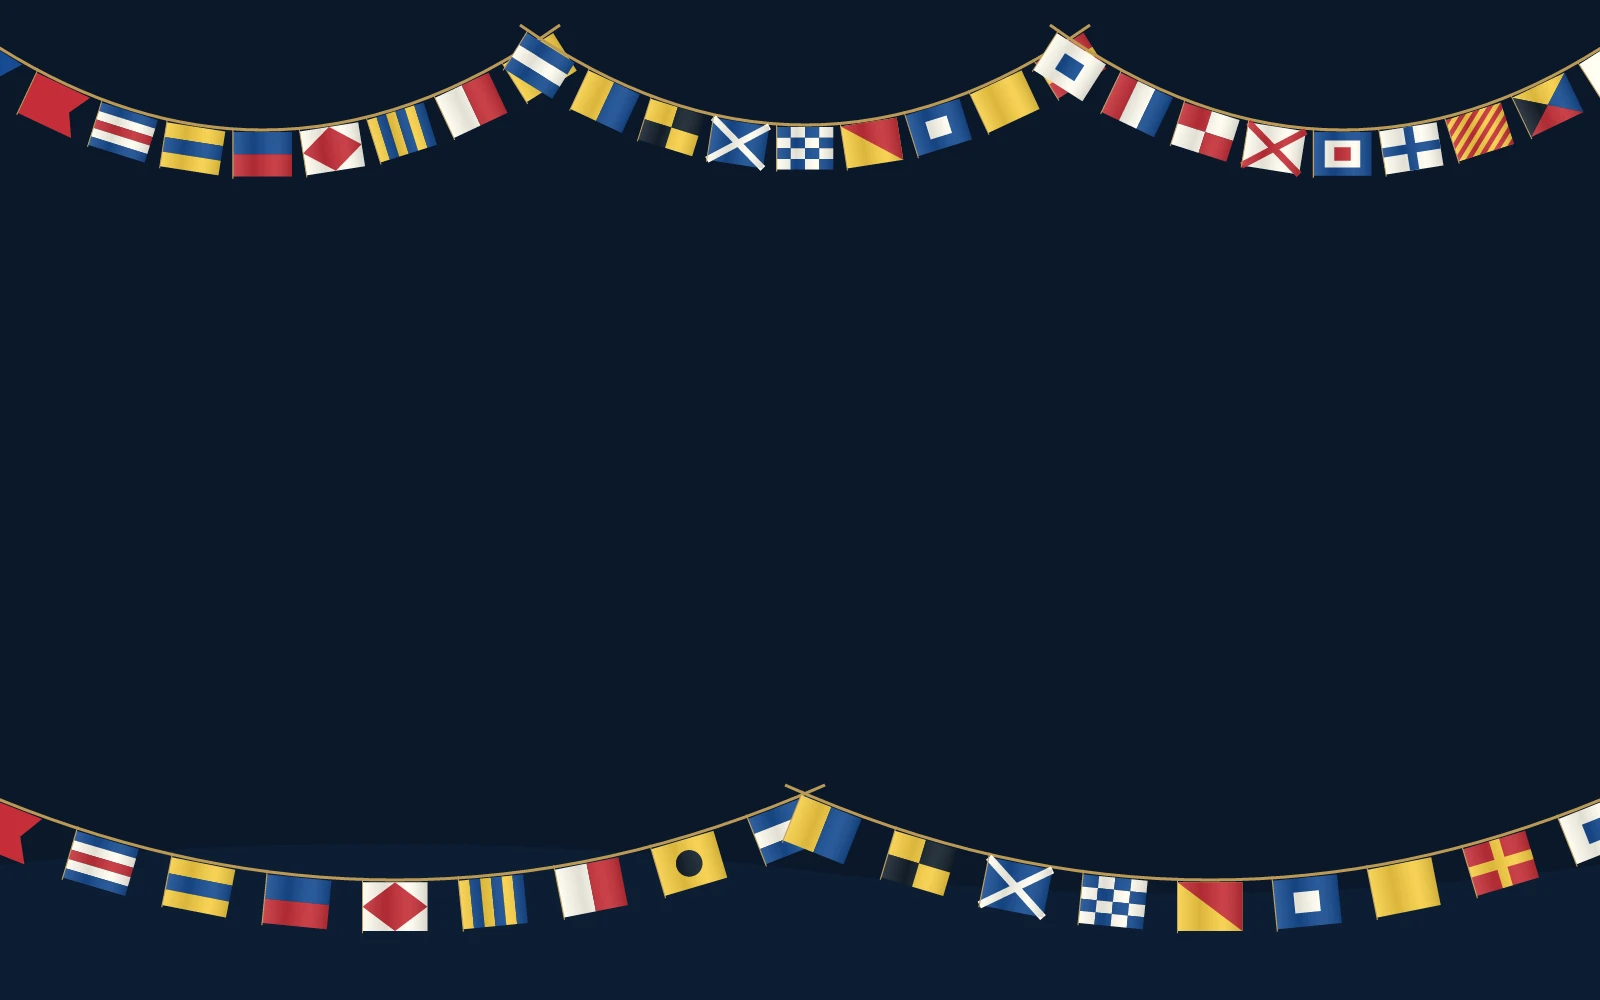
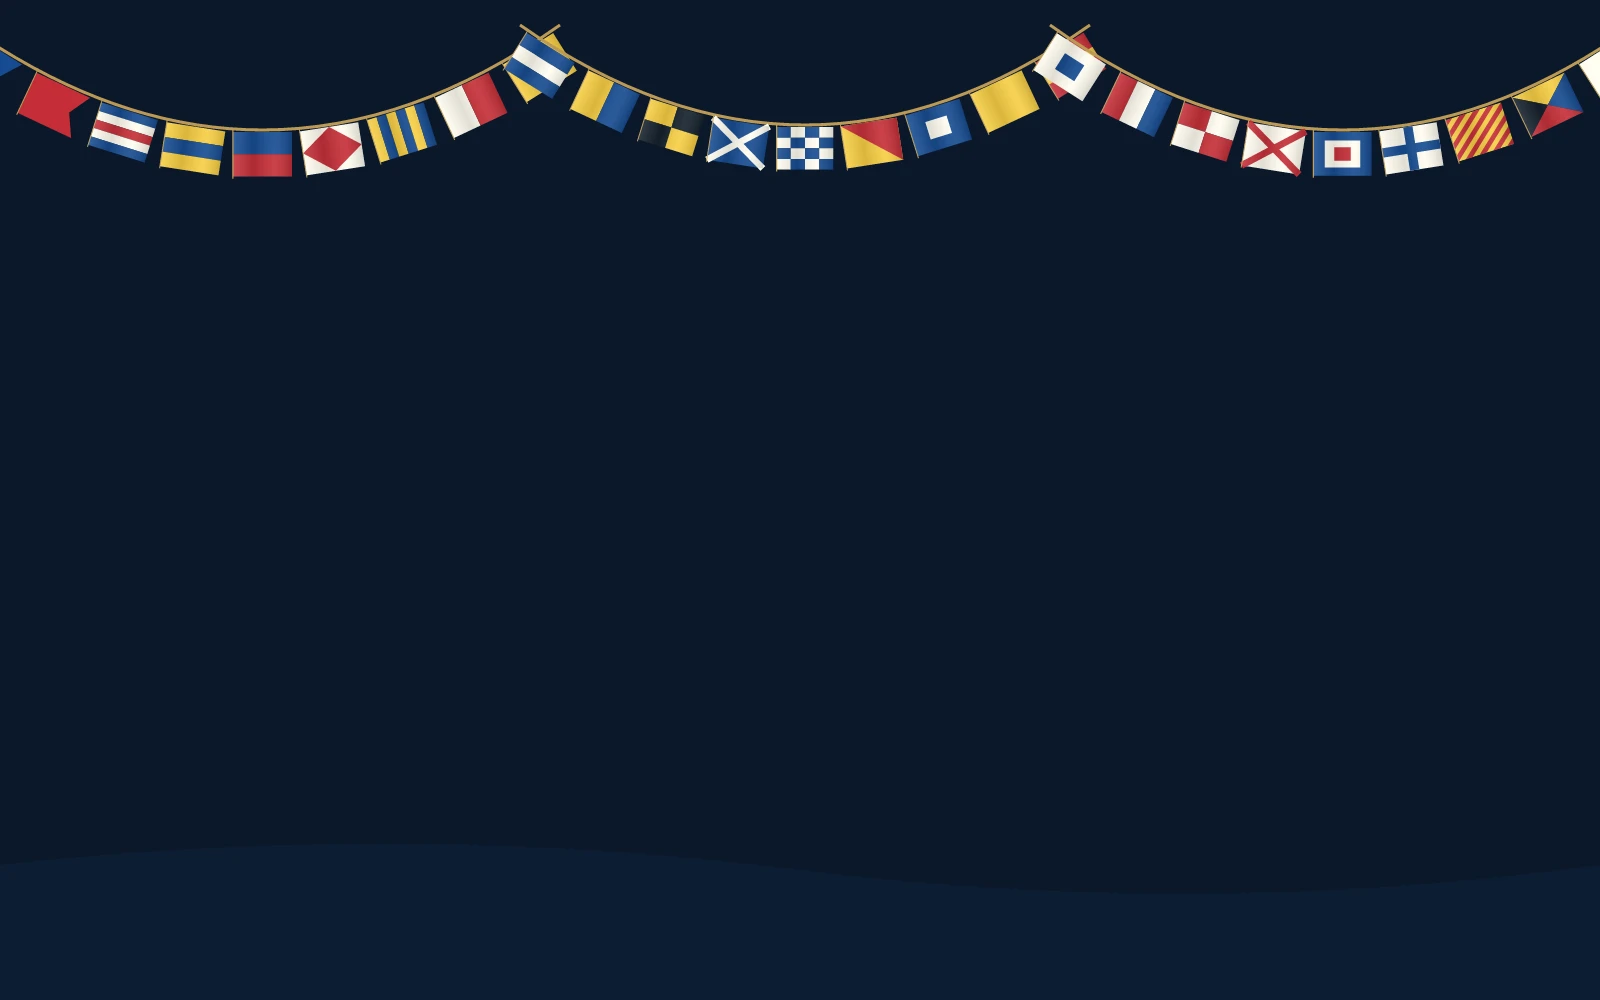
Keep signal flag swags along the top only

Changed region(s): [[0.0, 0.775, 1.0, 0.93]]

diff --git a/nautical/scripts/build-signal-flags.py b/nautical/scripts/build-signal-flags.py
@@ -42,8 +42,8 @@ for mode in ['light','dark']:
  bg,sea,rope=('#edf3f6','#bdd3df','#a48b57') if mode=='light' else ('#0b182b','#142d48','#bc9954')
  s=f'<svg xmlns="http://www.w3.org/2000/svg" width="1600" height="1000" viewBox="0 0 1600 1000"><defs><linearGradient id="cloth"><stop stop-color="#fff" stop-opacity=".12"/><stop offset=".35" stop-color="#000" stop-opacity=".12"/><stop offset=".7" stop-color="#fff" stop-opacity=".09"/><stop offset="1" stop-color="#000" stop-opacity=".16"/></linearGradient></defs><rect width="1600" height="1000" fill="{bg}"/>'
  s+=f'<path d="M0 865Q400 820 800 870T1600 865V1000H0Z" fill="{sea}" opacity=".25"/>'
- # Three top swags and two lower swags, 45 flags total; all 26 letters represented.
- spans=[(-35,560,25,105,9),(520,1090,25,100,9),(1050,1635,25,105,9),(-35,825,785,95,9),(785,1635,785,95,9)]
+ # Three top swags, 27 flags total; all 26 letters represented.
+ spans=[(-35,560,25,105,9),(520,1090,25,100,9),(1050,1635,25,105,9)]
  letters='ABCDEFGHIJKLMNOPQRSTUVWXYZ';n=0
  for left,right,y,sag,count in spans:
   width=right-left

diff --git a/nautical/README.md b/nautical/README.md
@@ -29,6 +29,6 @@ Checks passed: 40 token text-contrast pairs, focus-ring contrast, four WebP sign
 
 ## Signal Flags · 0.2.0
 
-Adds **Signal Flags**, with sailcloth-white/navy/red light colors and admiralty-blue/brass dark colors. Forty-five International Code of Signals letter flags, covering all 26 letters, hang in five sweeping bunting swags along the top and bottom. The center stays quiet for reading. The flags are decorative lettering, not an operational signal or navigational aid. Editable SVG originals are included in the repository; compressed WebP backgrounds ship with the plugin. No changes to the two existing themes.
+Adds **Signal Flags**, with sailcloth-white/navy/red light colors and admiralty-blue/brass dark colors. Twenty-seven International Code of Signals letter flags, covering all 26 letters, hang in three sweeping bunting swags along the top only. The center stays quiet for reading. The flags are decorative lettering, not an operational signal or navigational aid. Editable SVG originals are included in the repository; compressed WebP backgrounds ship with the plugin. No changes to the two existing themes.
 
 Validation: 60 palette text-contrast checks and all six background signature/size checks; host theme-definition normalization. The new theme has not yet been checked in an installed Control UI. Existing screenshots show the original two themes only.
